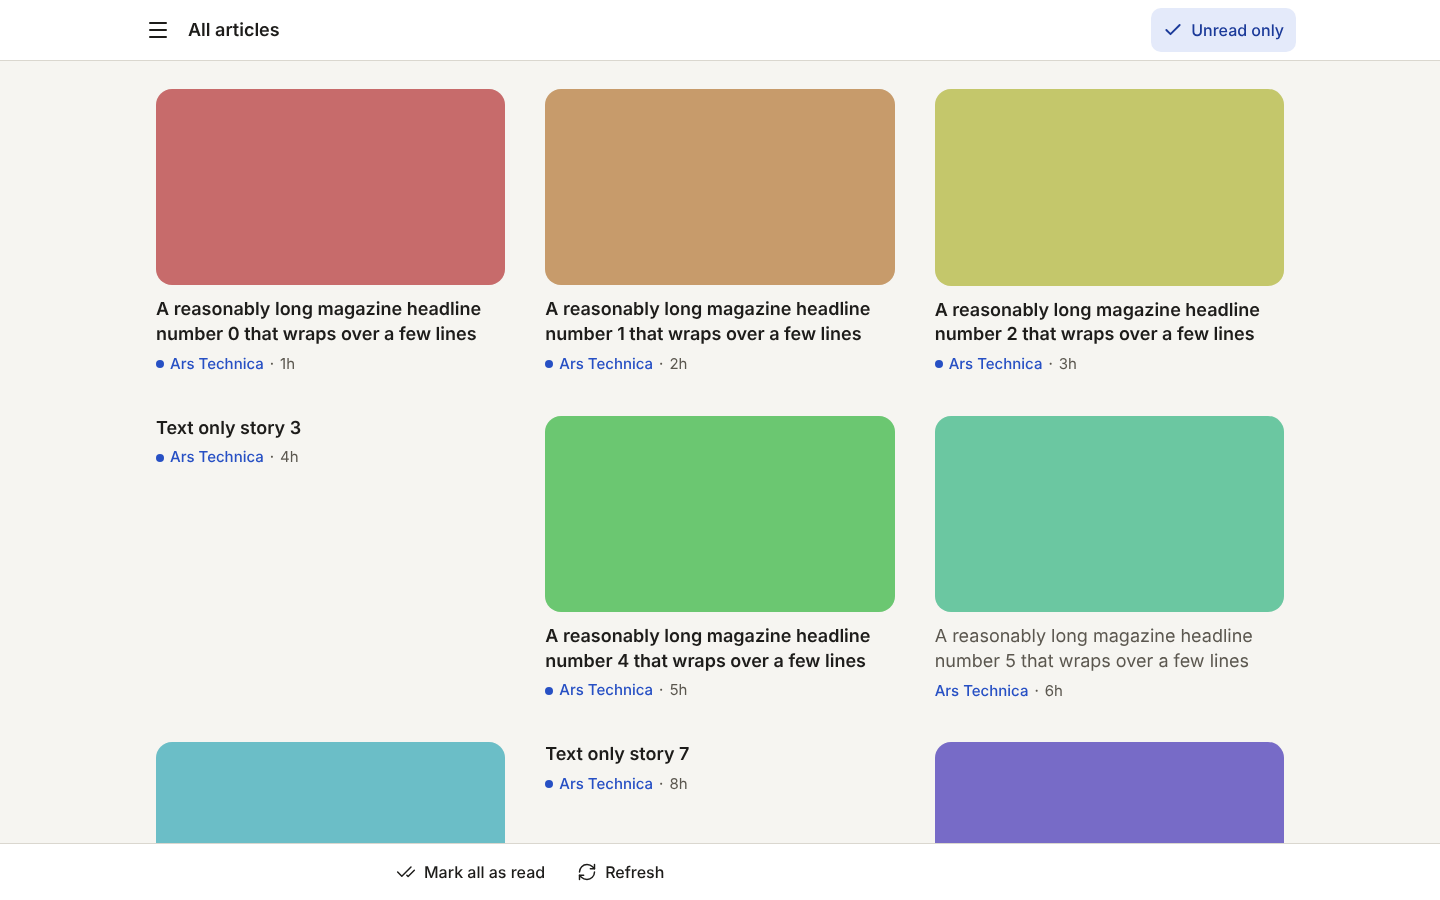
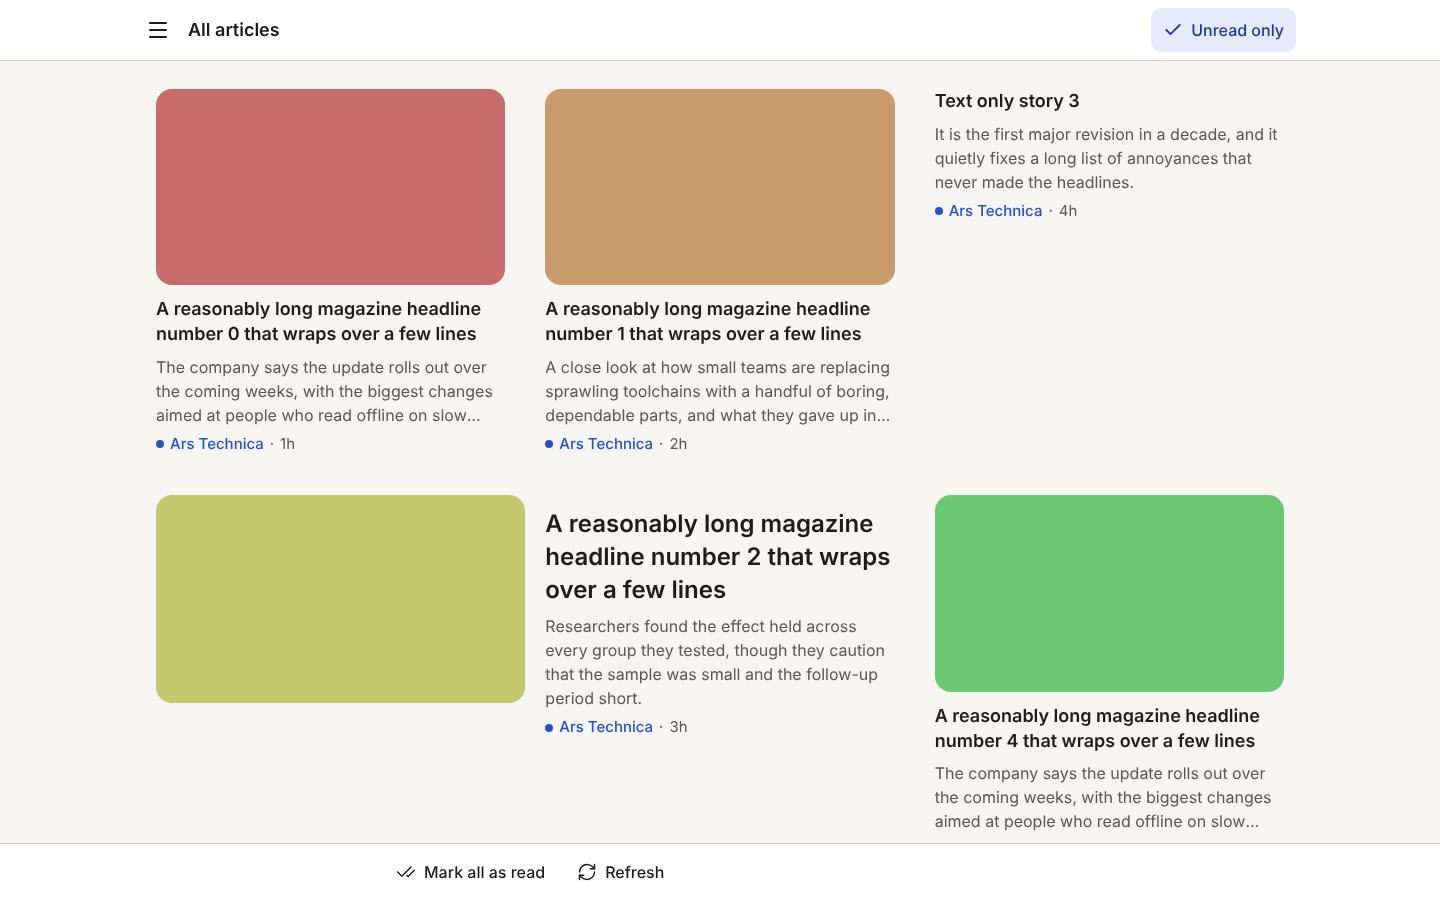
TID-062: Featured two-column cards and summaries in the desktop grid
Claude-Session: https://claude.ai/code/session_01NbhkL8UQSEDXj7zvYhp7qd

diff --git a/e2e/specs/tid-062-desktop-layout.spec.ts b/e2e/specs/tid-062-desktop-layout.spec.ts
@@ -11,18 +11,25 @@ const svg = (hue: number) =>
     `<svg xmlns="http://www.w3.org/2000/svg" width="640" height="360"><rect width="640" height="360" fill="hsl(${hue} 45% 60%)"/></svg>`,
   )}`;
 
-const ITEMS = Array.from({ length: 12 }, (_, i) => ({
+const SUMMARIES = [
+  'The company says the update rolls out over the coming weeks, with the biggest changes aimed at people who read offline on slow connections and want fewer interruptions.',
+  'A close look at how small teams are replacing sprawling toolchains with a handful of boring, dependable parts, and what they gave up in the process.',
+  'Researchers found the effect held across every group they tested, though they caution that the sample was small and the follow-up period short.',
+  'It is the first major revision in a decade, and it quietly fixes a long list of annoyances that never made the headlines.',
+];
+
+const ITEMS = Array.from({ length: 18 }, (_, i) => ({
   id: `9${400 + i}`,
   subscriptionId: 's1',
   feedTitle: 'Ars Technica',
   title:
-    i % 4 === 3
+    i % 5 === 3
       ? `Text only story ${i}`
       : `A reasonably long magazine headline number ${i} that wraps over a few lines`,
   author: null,
   url: `https://example.com/${i}`,
-  summary: null,
-  imageUrl: i % 4 === 3 ? null : svg(i * 31),
+  summary: SUMMARIES[i % SUMMARIES.length],
+  imageUrl: i % 5 === 3 ? null : svg(i * 31),
   publishedAt: new Date(NOW - (i + 1) * 3_600_000).toISOString(),
   isRead: i === 5,
   isStarred: false,
@@ -89,7 +96,7 @@ test('the list is a card grid: 3 columns at 1280, 2 at 1100 with the sidebar, 3 
 }) => {
   await mockEntries(page);
   await page.goto('/all');
-  await expect(page.getByTestId('article-grid').locator('li')).toHaveCount(12);
+  await expect(page.getByTestId('article-grid').locator('li')).toHaveCount(18);
   expect(await columns(page)).toBe(3);
   await page.setViewportSize({ width: 1100, height: 800 });
   expect(await columns(page)).toBe(2);
@@ -106,14 +113,42 @@ test('the list is a card grid: 3 columns at 1280, 2 at 1100 with the sidebar, 3 
   await expect(img).toHaveAttribute('referrerpolicy', 'no-referrer');
 });
 
-// Review screenshots for docs/ux/reviews (run with TID062_SHOTS=1 on desktop-light).
-test('review screenshots', async ({ page }) => {
+test('hero entries are featured cards: two columns wide, summary clamped, no holes', async ({
+  page,
+}) => {
+  await mockEntries(page);
+  await page.goto('/all');
+  const grid = page.getByTestId('article-grid');
+  const featured = grid.locator('li[data-layout="hero"]');
+  await expect(featured).toHaveCount(3);
+  const single = (await grid.locator('li[data-layout="thumb"]').first().boundingBox())!;
+  const wide = (await featured.first().boundingBox())!;
+  expect(wide.width).toBeGreaterThan(single.width * 1.9);
+  // Image on the left half, title and summary beside it.
+  const img = (await featured.first().locator('img').boundingBox())!;
+  const title = (await featured.first().getByRole('heading').boundingBox())!;
+  expect(title.x).toBeGreaterThanOrEqual(img.x + img.width);
+  const summary = featured.first().getByTestId('entry-summary');
+  await expect(summary).toBeVisible();
+  // The text-only card shows its summary too.
+  await expect(
+    grid.locator('li[data-layout="text"]').first().getByTestId('entry-summary'),
+  ).toBeVisible();
+});
+
+// Review screenshots for docs/ux/reviews (run with TID062_SHOTS=1 on desktop-light and -dark).
+test('review screenshots', async ({ page }, testInfo) => {
   test.skip(!process.env.TID062_SHOTS, 'only when capturing screenshots');
+  const dark = testInfo.project.name.endsWith('dark');
   await mockEntries(page);
   await page.setViewportSize({ width: 1440, height: 900 });
   await page.goto('/all');
-  await expect(page.getByTestId('article-grid').locator('li')).toHaveCount(12);
+  await expect(page.getByTestId('article-grid').locator('li')).toHaveCount(18);
   await page.waitForTimeout(400);
+  if (dark) {
+    await page.screenshot({ path: '../docs/ux/reviews/tid-062-desktop-dark.png' });
+    return;
+  }
   await page.screenshot({ path: '../docs/ux/reviews/tid-062-desktop-sidebar.png' });
   await page.getByRole('button', { name: 'Hide sidebar' }).click();
   await page.waitForTimeout(500);

diff --git a/apps/web/src/lists/ArticleRow.tsx b/apps/web/src/lists/ArticleRow.tsx
@@ -10,13 +10,17 @@ import { rowLayout } from './rowLayout';
  * `lg` once the sidebar is hidden (the column is the full ~1024px). Below `lg` it stays one column.
  */
 export const LIST_GRID =
-  'lg:grid lg:grid-cols-2 lg:gap-4 xl:grid-cols-3 group-data-[sidebar=hidden]/shell:lg:grid-cols-3';
+  'lg:grid lg:grid-flow-dense lg:grid-cols-2 lg:gap-4 xl:grid-cols-3 group-data-[sidebar=hidden]/shell:lg:grid-cols-3';
 
 /**
  * One article in a list (FR-RD-5), in one of three layouts (TID-060): thumbnail on the left with
  * the text beside it (to flip it, add `flex-row-reverse` to the link), text-only, or a hero image
- * on top. The summary is not shown: the reference look has none. All feed text is rendered as
- * text: React escapes it, and nothing here ever sets HTML (spec 10.5).
+ * on top. Below `lg` there is no summary. From `lg` every card shows a clamped plain-text summary
+ * (when the feed has one) and a hero entry is a featured card: it spans two columns (a full row in
+ * the 2-column grid), image on the left half, bigger title and summary on the right. The grid is
+ * `grid-flow-dense`, so featured cards leave no holes; the cost is that their visual order can
+ * differ slightly from DOM and keyboard order. All feed text is rendered as text: React escapes
+ * it, and nothing here ever sets HTML (spec 10.5).
  */
 export function ArticleRow({
   entry,
@@ -33,6 +37,7 @@ export function ArticleRow({
   const title = entry.title?.trim() || 'Untitled article';
   const layout = broken ? 'text' : rowLayout(entry, prev);
   const hero = layout === 'hero';
+  const summary = entry.summary?.replace(/\s+/g, ' ').trim() ?? '';
   const img = (cls: string) => (
     <img
       src={entry.imageUrl ?? undefined}
@@ -48,25 +53,37 @@ export function ArticleRow({
     <li
       data-entry-id={entry.id}
       data-layout={layout}
-      className="border-b border-line lg:border-b-0"
+      className={`border-b border-line lg:border-b-0 ${hero ? 'lg:col-span-2' : ''}`}
     >
       <Link
         to={to}
         className={`-mx-4 min-h-11 px-4 py-4 hover:bg-sunken active:bg-sunken lg:mx-0 lg:h-full lg:rounded-xl lg:p-3 ${
-          hero ? 'block lg:flex lg:flex-col' : 'flex items-start gap-3 lg:flex-col lg:gap-0'
+          hero
+            ? 'block lg:flex lg:items-start lg:gap-5'
+            : 'flex items-start gap-3 lg:flex-col lg:gap-0'
         }`}
       >
-        {hero && img('aspect-video max-h-80 w-full rounded-lg lg:max-h-none')}
+        {hero && img('aspect-video max-h-80 w-full rounded-lg lg:max-h-none lg:w-1/2 lg:shrink-0')}
         {layout === 'thumb' &&
           img('size-24 shrink-0 rounded-lg lg:aspect-video lg:size-auto lg:w-full')}
         <div className="min-w-0 flex-1">
           <h2
-            className={`line-clamp-4 break-words leading-snug ${hero ? 'mt-3 text-xl lg:text-lg' : 'text-lg'} ${
+            className={`line-clamp-4 break-words leading-snug ${hero ? 'mt-3 text-xl lg:mt-0 lg:text-2xl' : 'text-lg'} ${
               layout === 'text' ? '' : 'lg:mt-3'
             } ${entry.isRead ? 'font-normal text-fg-muted' : 'font-semibold text-fg'}`}
           >
             {title}
           </h2>
+          {summary && (
+            <p
+              data-testid="entry-summary"
+              className={`mt-2 hidden break-words text-base leading-normal text-fg-muted ${
+                hero ? 'lg:line-clamp-4' : 'lg:line-clamp-3'
+              }`}
+            >
+              {summary}
+            </p>
+          )}
           <p className="mt-1.5 flex items-center gap-1.5 text-[0.9375rem] text-fg-muted">
             {!entry.isRead && (
               <>

diff --git a/apps/web/src/lists/ArticleRow.test.tsx b/apps/web/src/lists/ArticleRow.test.tsx
@@ -1,0 +1,69 @@
+import { render, screen } from '@testing-library/react';
+import { MemoryRouter } from 'react-router';
+import { describe, expect, it } from 'vitest';
+import type { EntrySummary } from '@tidings/shared';
+import { ArticleRow, LIST_GRID } from './ArticleRow';
+import { heroByRule } from './rowLayout';
+
+// TID-062: featured cards and summaries on desktop.
+
+const ids = Array.from({ length: 50 }, (_, i) => String(1000 + i));
+const HERO_ID = ids.find((id) => heroByRule(id))!;
+const THUMB_ID = ids.find((id) => !heroByRule(id))!;
+
+const make = (id: string, over: Partial<EntrySummary> = {}): EntrySummary => ({
+  id,
+  subscriptionId: 's1',
+  feedTitle: 'Feed',
+  title: `Title ${id}`,
+  author: null,
+  url: null,
+  summary: null,
+  imageUrl: 'https://img.example.com/a.jpg',
+  publishedAt: '2026-11-17T10:00:00.000Z',
+  isRead: false,
+  isStarred: false,
+  ...over,
+});
+
+const renderRow = (entry: EntrySummary) =>
+  render(
+    <MemoryRouter>
+      <ul>
+        <ArticleRow entry={entry} to="/all/a/1" now={Date.parse('2026-11-17T12:00:00Z')} />
+      </ul>
+    </MemoryRouter>,
+  );
+
+describe('ArticleRow featured cards', () => {
+  it('spans two columns for a hero entry only, and the grid packs densely', () => {
+    expect(LIST_GRID).toContain('lg:grid-flow-dense');
+    const { container, unmount } = renderRow(make(HERO_ID));
+    expect(container.querySelector('li')!.className).toContain('lg:col-span-2');
+    unmount();
+    const thumb = renderRow(make(THUMB_ID));
+    expect(thumb.container.querySelector('li')!.className).not.toContain('lg:col-span-2');
+  });
+
+  it('shows the summary as clamped plain text, hidden below lg', () => {
+    renderRow(make(THUMB_ID, { summary: '  A <b>plain</b>\n  summary. ' }));
+    const p = screen.getByTestId('entry-summary');
+    expect(p.textContent).toBe('A <b>plain</b> summary.');
+    expect(p.querySelector('b')).toBeNull();
+    expect(p.className).toContain('hidden');
+    expect(p.className).toContain('lg:line-clamp-3');
+  });
+
+  it('clamps a featured summary to four lines and omits an empty summary', () => {
+    const { unmount } = renderRow(make(HERO_ID, { summary: 'Text' }));
+    expect(screen.getByTestId('entry-summary').className).toContain('lg:line-clamp-4');
+    unmount();
+    renderRow(make(HERO_ID, { summary: '   ' }));
+    expect(screen.queryByTestId('entry-summary')).toBeNull();
+  });
+
+  it('shows summaries on text-only cards too', () => {
+    renderRow(make(THUMB_ID, { imageUrl: null, summary: 'Words' }));
+    expect(screen.getByTestId('entry-summary')).toHaveTextContent('Words');
+  });
+});

diff --git a/apps/web/src/lists/ArticleList.test.tsx b/apps/web/src/lists/ArticleList.test.tsx
@@ -135,7 +135,7 @@ describe('AC1: the list views', () => {
     const first = row('Title 1');
     expect(within(first!).getByText('Daring Fireball')).toBeInTheDocument();
     expect(within(first!).getByText('1h')).toBeInTheDocument();
-    expect(within(first!).queryByText('Summary 1')).toBeNull();
+    expect(within(first!).getByText('Summary 1')).toBeInTheDocument();
     expect(first!.querySelector('img')).toHaveAttribute('src', 'https://img.example.com/a.jpg');
     const second = row('Title 2')!;
     expect(second.querySelector('img')).toBeNull();
@@ -606,7 +606,7 @@ describe('AC14: feed text is text', () => {
     expect(heading.textContent).toBe(title);
     expect(heading.querySelector('b')).toBeNull();
     const item = heading.closest('li')!;
-    expect(item).not.toHaveTextContent(summary);
+    expect(item).toHaveTextContent(summary);
     expect(item.querySelector('script, img')).toBeNull();
     expect(document.querySelector('main img')).toBeNull();
     expect(alertSpy).not.toHaveBeenCalled();

diff --git a/e2e/specs/tid-018-article-lists.spec.ts b/e2e/specs/tid-018-article-lists.spec.ts
@@ -61,7 +61,7 @@ test('AC14: markup in an article title and summary is shown as text and runs not
   const heading = page.getByRole('heading', { level: 2, name: XSS_TITLE });
   await expect(heading).toHaveText(XSS_TITLE);
   const item = page.getByRole('main').getByRole('listitem').filter({ has: heading });
-  await expect(item).not.toContainText(XSS_SUMMARY);
+  await expect(item).toContainText(XSS_SUMMARY);
   await expect(item.locator('b, script, img')).toHaveCount(0);
   await expect(page.getByRole('main').locator('script')).toHaveCount(0);
   await page.waitForTimeout(300);
